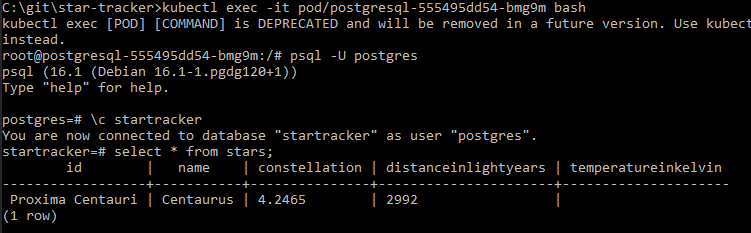
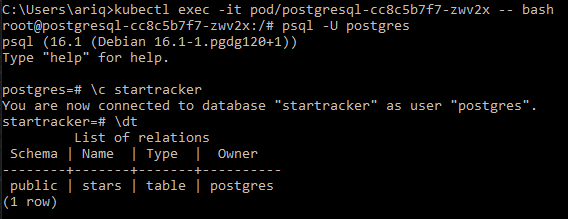
Update config map and readme

diff --git a/README.md b/README.md
@@ -30,7 +30,7 @@ In this project we build a containerized REST API to track stars in the sky.
 * k8s-deployment-db: Defines the deployment to manage the pods running the PostgreSQL database workload.
 * For each YAML file, execute - kubectl apply -f {file_name}.yml
 * Verify the database pod is running by executing - kubectl get all
-* Connect to the pod, login using user postgres, and connect to the 'startracker' database to verify the database was initialized:
+* Connect to the pod, login using user postgres, and connect to the 'startracker':
   ![alt text](https://github.com/aemtenan/star-tracker/blob/main/src/main/resources/static/k8s-db.png?raw=true)
 
 ## API Reference
